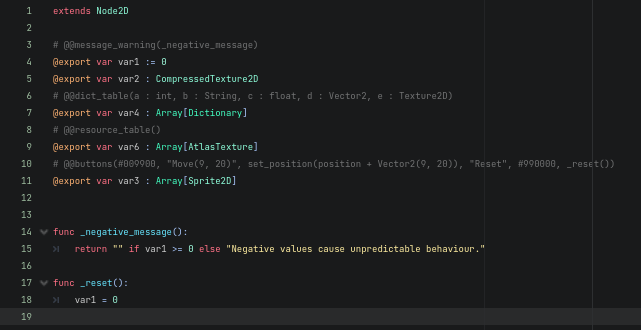
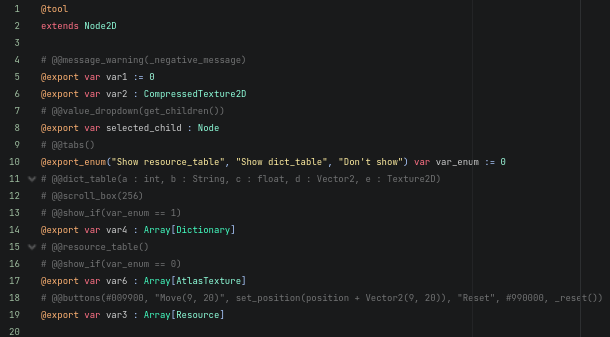
Add tabs attribute, update images

diff --git a/README.md b/README.md
@@ -50,6 +50,10 @@ Hides property if `expression` evaluates to `false`.
 
 An option button that evaluates `expression` to get values to choose from. The expression may return an Array or a Dictionary.
 
+## @@tabs()
+
+Displays enum as tabs. Can be used to speed up enum switching, or with `@@show_if` to only show a group when enum is of a specific value.
+
 
 ## More commentributes coming soon.
 
